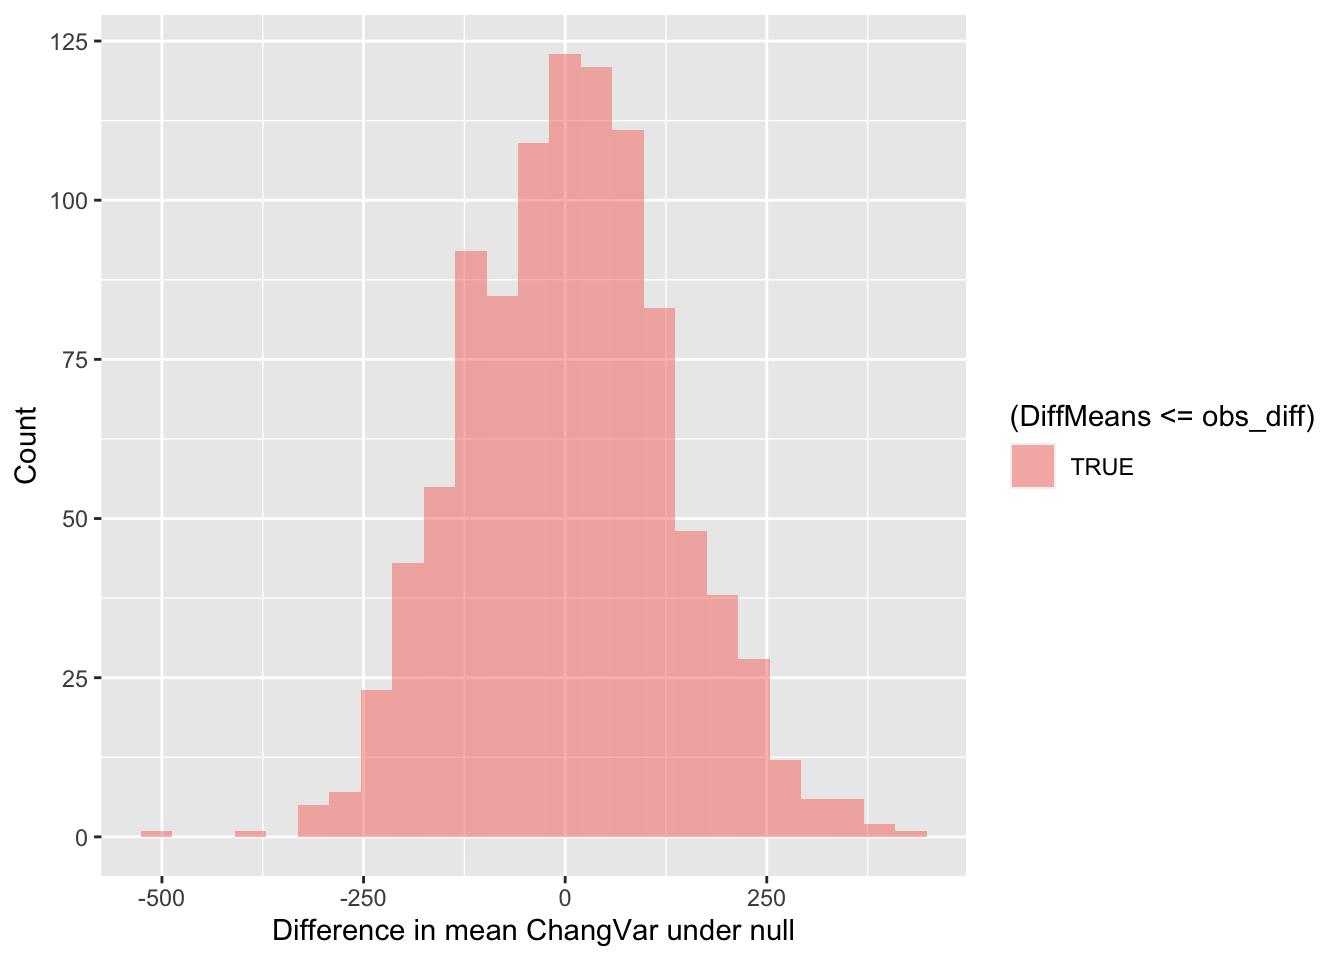
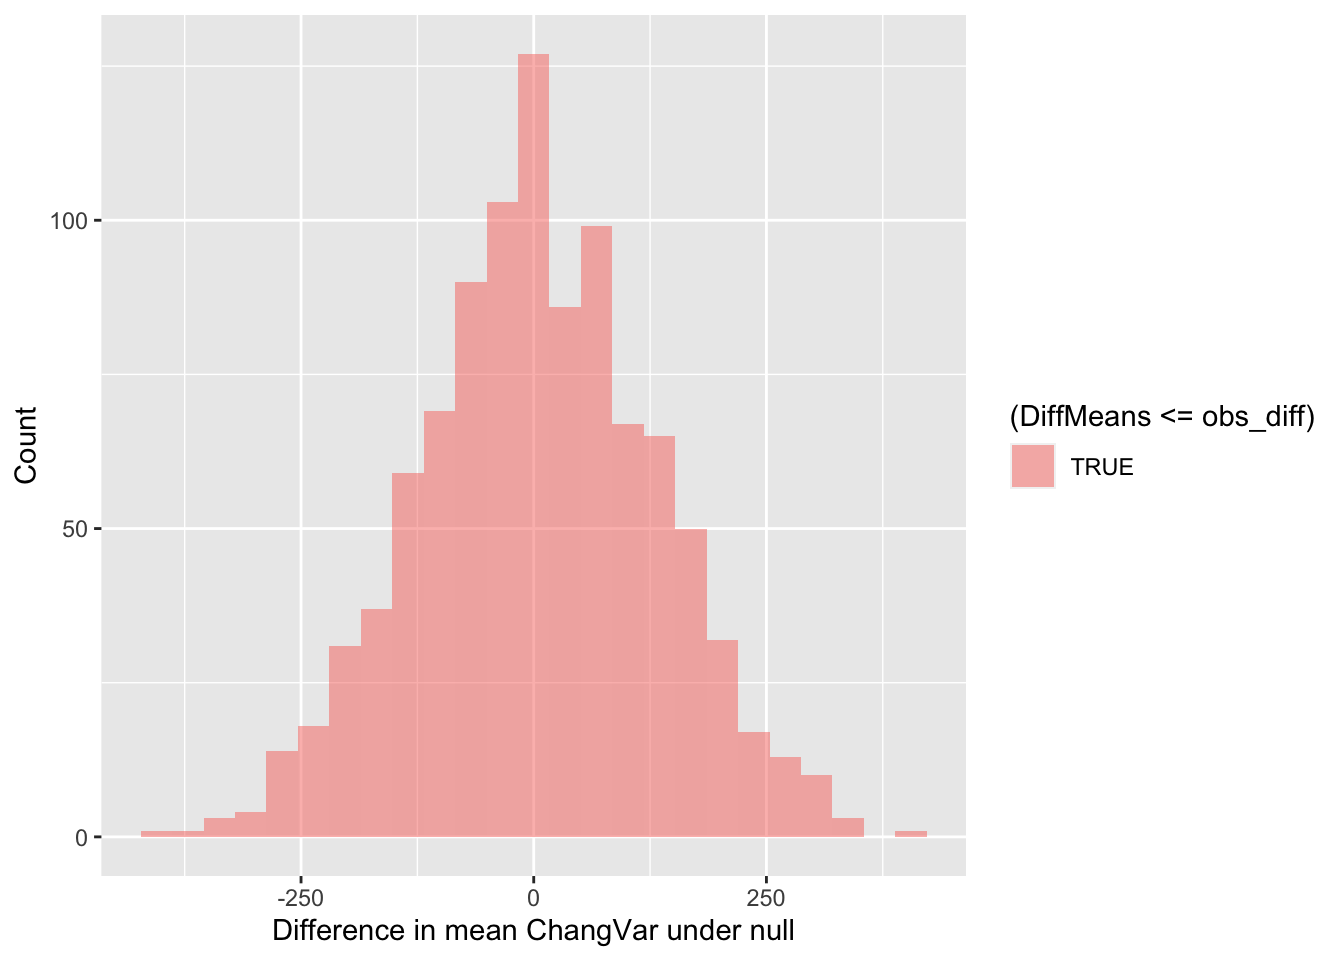
fixed cor-test in bioaco tutorial:

diff --git a/docs/bioaco.html b/docs/bioaco.html
@@ -10,7 +10,7 @@
 
 
 
-<meta name="date" content="2023-04-05" />
+<meta name="date" content="2023-04-06" />
 
 <title>Bioacoustic analyses</title>
 
@@ -344,7 +344,7 @@ $(document).ready(function () {
 
 <h1 class="title toc-ignore">Bioacoustic analyses</h1>
 <h4 class="author"></h4>
-<h4 class="date">2023-04-05</h4>
+<h4 class="date">2023-04-06</h4>
 
 </div>
 
@@ -599,12 +599,12 @@ names(randomizing_diffs)[1] &lt;- &quot;DiffMeans&quot; # change the name of the
 # View first few rows of data
 head(randomizing_diffs)</code></pre>
 <pre><code>##    DiffMeans
-## 1 -105.73063
-## 2 -221.52699
-## 3   38.34887
-## 4  -90.91298
-## 5  -21.48533
-## 6   33.76630</code></pre>
+## 1  40.763169
+## 2 146.610098
+## 3 182.855740
+## 4  -7.360132
+## 5 -36.689101
+## 6  87.663997</code></pre>
 <p>Now we can visualize the distribution of simulated differences in the
 mean values of <code>ChangVar</code> at the Big and Open sites versus
 our observed difference in means. Note that the observed difference was
@@ -687,7 +687,7 @@ when we shuffle our data?</p>
 <pre class="r"><code>quantiles_cor &lt;- qdata( ~ cor, p = c(0.025, 0.975), data=randomizing_cor) # calculate the 2.5% and 97.5% quantiles in our simulated correlation coefficient data (note that 97.5-2.5 = 95!)
 quantiles_cor # display the quantiles</code></pre>
 <pre><code>##         2.5%        97.5% 
-## -0.005685185  0.007677471</code></pre>
+## -0.004898955  0.007722658</code></pre>
 <p>The values above give us a 95% confidence interval estimate for our
 correlation coefficient!</p>
 <p>Do we clearly see that our correlation coefficient distribution does
@@ -948,7 +948,7 @@ gf_histogram(~ cor,
              ylab=&quot;Count&quot;)
 
 # Statistical test
-cor.test(ChangVar~sitenum, method=&quot;spearman&quot;)
+cor.test(ChangVar~sitenum, data=soundDF, method=&quot;spearman&quot;)
 
 ### Regression models
 
